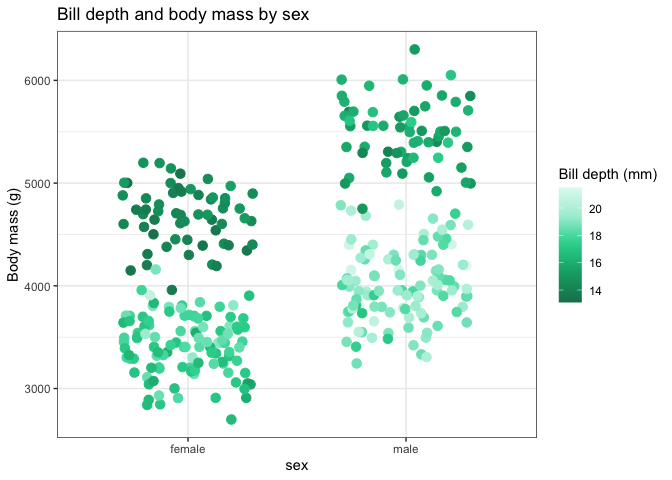
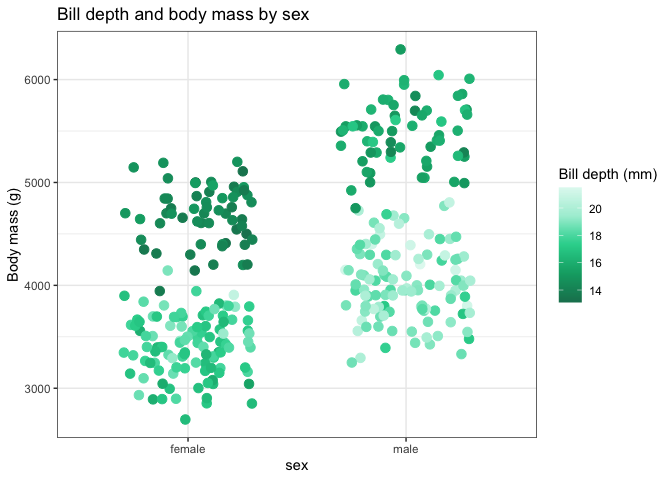
roxygenized and packagedown-ed

diff --git a/README.md b/README.md
@@ -1,13 +1,13 @@
 
 <!-- README.md is generated from README.Rmd. Edit README.Rmd and knit. -->
 
-# twist-color-pal
+# twistcolorpal
 
 Thematic Twist Bioscience color palettes for ggplot2 By Patrick Cherry
 
 ## Brief Description
 
-The R package `twist_color_pal` provides the `ggplot2` functions
+The R package `twistcolorpal` provides the `ggplot2` functions
 `scale_color_twist` and `scale_fill_twist` to automatically and flexibly
 add Twist Bioscience brand colors to plots.
 
@@ -62,7 +62,7 @@ penguins %>%
 
 ``` r
 penguins %>%
-  filter(!is.na(sex)) %>%
+  filter(!is.na(body_mass_g)) %>%
   ggplot(aes(x = species, y = body_mass_g, color = island)) +
   geom_point(size = 2,
               position = position_jitterdodge(jitter.width = 0.4)) +
@@ -76,7 +76,6 @@ penguins %>%
 
 ``` r
 penguins %>%
-  #filter(!is.na(sex)) %>%
   ggplot(aes(x = year, fill = species)) +
   geom_bar(position = position_dodge()) +
   scale_fill_twist(palette = "pink_biopharma") +
